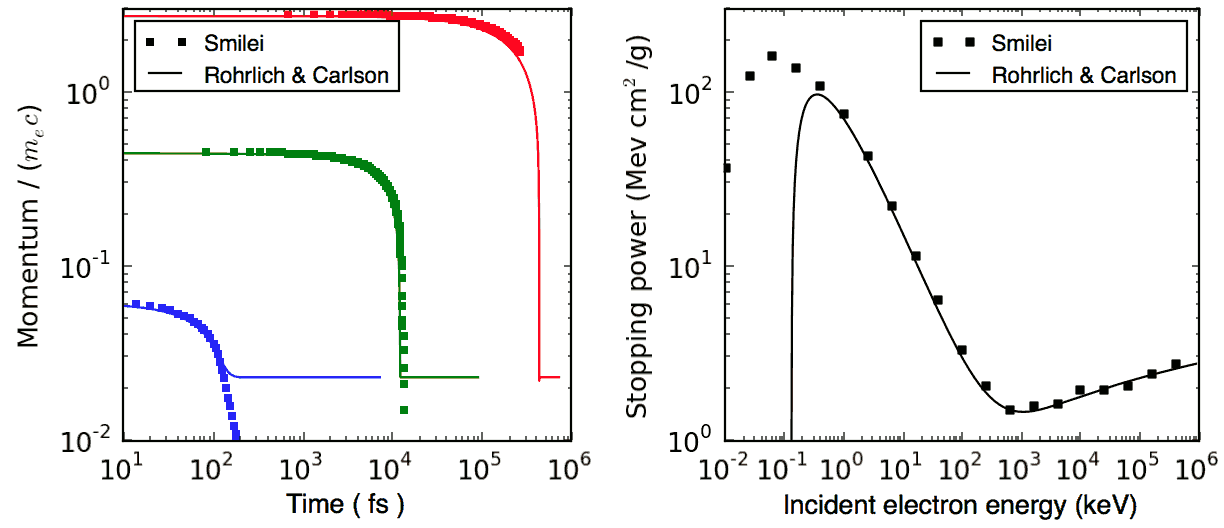
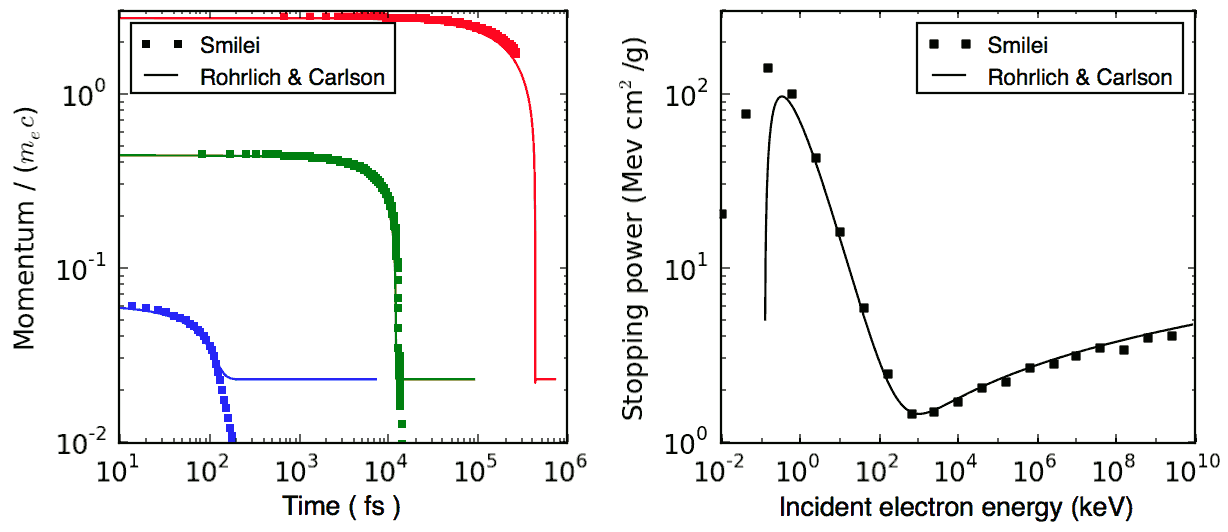
Better ionization formula for high energies

diff --git a/src/Collisions/CollisionalIonization.cpp b/src/Collisions/CollisionalIonization.cpp
@@ -130,21 +130,30 @@ void CollisionalIonization::prepare3(double timestep, int n_cell_per_cluster,
     }
 }
 
-// Method to find out whether a 
-
 // Method to apply the ionization
-void CollisionalIonization::apply(double vrel, double gamma1_COM, double gamma2_COM,
+void CollisionalIonization::apply(double gamma1, double gamma2,
     Particles *p1, int i1, Particles *p2, int i2)
 {
+    static double gamma, Kve;
+    gamma1 = p1->lor_fac(i1);
+    gamma2 = p2->lor_fac(i2);
+    // Calculate lorentz factor in the frame of ion
+    gamma = gamma1*gamma2 
+        - p1->momentum(0,i1)*p2->momentum(0,i2)
+        - p1->momentum(1,i1)*p2->momentum(1,i2)
+        - p1->momentum(2,i1)*p2->momentum(2,i2);
+    // Calculate coefficient (1-ve.vi)*ve' where ve' is in ion frame
+    Kve = sqrt(gamma*gamma-1.)/gamma1/gamma2;
+    // Calculate the rest of the stuff
     if( electronFirst ) {
-        calculate(vrel, gamma1_COM, p1, i1, p2, i2);
+        calculate(gamma, Kve, p1, i1, p2, i2);
     } else {
-        calculate(vrel, gamma2_COM, p2, i2, p1, i1);
+        calculate(gamma, Kve, p2, i2, p1, i1);
     }
 }
 
 // Method used by ::apply so that we are sure that electrons are the first species
-void CollisionalIonization::calculate(double vrel, double gammae,
+void CollisionalIonization::calculate(double gamma, double Kve, 
     Particles *pe, int ie, Particles *pi, int ii)
 {
     static double We, Wi; // weights
@@ -157,7 +166,7 @@ void CollisionalIonization::calculate(double vrel, double gammae,
     if( Zstar>=atomic_number ) return; // if already fully ionized, do nothing
     
     // Calculate the location x in the databases
-    x = a2*log(a1*(gammae-1.));
+    x = a2*log(a1*(gamma-1.));
     
     // Interpolate the databases at location x
     if( x<0. ) return; // if energy below Emin, do nothing
@@ -176,30 +185,41 @@ void CollisionalIonization::calculate(double vrel, double gammae,
     
     // Make a random number to choose if ionization or not
     U = ((double)rand() / RAND_MAX);
-    if( U < exp(-vrel*coeff*cs) ) return;
+    if( U < exp(-coeff*Kve*cs) ) return;
     
     // Now we really do the ionization
     U = ((double)rand() / RAND_MAX);
     We = pe->weight(ie); Wi = pi->weight(ii);
-    p2 = gammae*gammae - 1.;
+    p2 = gamma*gamma - 1.;
     // Ionize the atom and create electron
     if( U<We/Wi ) {
-        pi->charge(ii)++;
-        pe->cp_particle(ie, new_electrons); // copy electron
-        pr = sqrt(w*(w+2.)/p2); // momentum ratio
+        pi->charge(ii)++; // increase ion charge
+        pe->cp_particle(ie, new_electrons); // duplicate electron
+        new_electrons.Weight.back() = Wi; // new electron has ion weight
+        // Calculate the new electron momentum
+        pr = sqrt(w*(w+2.)/p2);
         new_electrons.Momentum[0].back() *= pr;
         new_electrons.Momentum[1].back() *= pr;
         new_electrons.Momentum[2].back() *= pr;
-        new_electrons.Weight.back() = Wi;
+        // Correction for moving back to the frame of the ion
+        pr = w+1. - pr*gamma;
+        new_electrons.Momentum[0].back() += pr * pi->momentum(0,ii);
+        new_electrons.Momentum[1].back() += pr * pi->momentum(1,ii);
+        new_electrons.Momentum[2].back() += pr * pi->momentum(2,ii);
     }
     // Lose incident electron energy
     if( U<Wi/We ) {
-        pr = sqrt((pow(gammae-e,2)-1.)/p2); // momentum ratio
+        // Calculate the new electron momentum
+        pr = sqrt((pow(gamma-e,2)-1.)/p2);
         pe->momentum(0,ie) *= pr;
         pe->momentum(1,ie) *= pr;
         pe->momentum(2,ie) *= pr;
+        // Correction for moving back to the frame of the ion
+        pr = (1.-pr)*gamma - e;
+        pe->momentum(0,ie) += pr * pi->momentum(0,ii);
+        pe->momentum(1,ie) += pr * pi->momentum(1,ii);
+        pe->momentum(2,ie) += pr * pi->momentum(2,ii);
     }
-    
 }
 
 

diff --git a/src/Collisions/CollisionalIonization.h b/src/Collisions/CollisionalIonization.h
@@ -30,8 +30,7 @@ public:
     virtual void prepare2(Particles *p1, int i1, Particles *p2, int i2);
     virtual void prepare3(double, int, unsigned int, unsigned int);
     //! Method to apply the ionization
-    virtual void apply(double vrel, double gamma1_COM, double gamma2_COM,
-        Particles *p1, int i1, Particles *p2, int i2);
+    virtual void apply(double, double, Particles *p1, int i1, Particles *p2, int i2);
     
     //! Table of integrated cross-section
     std::vector<std::vector<double> > crossSection;
@@ -67,7 +66,7 @@ private:
     double coeff;
     
     //! Method called by ::apply to calculate the ionization, being sure that electrons are the first species
-    void calculate(double vrel, double gammae, Particles *pe, int ie, Particles *pi, int ii);
+    void calculate(double, double, Particles *pe, int ie, Particles *pi, int ii);
     
     //! Quantities used during computation
     int Zstar; // ion charge
@@ -81,13 +80,12 @@ public:
     CollisionalNoIonization() : CollisionalIonization(0,1.,NULL) {};
     ~CollisionalNoIonization(){};
     
-    void prepare2(Particles *p1, int i1, Particles *p2, int i2){};
+    void prepare2(Particles*, int, Particles*, int){};
     void prepare3(double, int, unsigned int, unsigned int){};
-    void apply(double vrel, double gamma1_COM, double gamma2_COM,
-        Particles *p1, int i1, Particles *p2, int i2){};
+    void apply(double, double, Particles*, int, Particles*, int){};
     
     //! Temporary stuff before patches arrive
-    void finish(Species *s1, Species *s2, Params&) {};
+    void finish(Species*, Species*, Params&) {};
 };
 
 #endif

diff --git a/tests/collisions/ionization_stopping_power1.py b/tests/collisions/ionization_stopping_power1.py
@@ -24,7 +24,7 @@ interpolation_order = 2
 # timestep = float, time steps
 # sim_time = float, duration of the simulation
 timestep = 0.01 * L0
-sim_time  = 1 * L0
+sim_time  = 10 * L0
 
 
 #  optional parameter time_fields_frozen, during which fields are not updated
@@ -65,7 +65,7 @@ random_seed = 0
 electrons = []
 energy = []
 emin = 1e-2 #keV
-emax = 1e6
+emax = 1e10
 npoints = 20
 for i in range(npoints):
 	el = "electron"+str(i)
@@ -78,7 +78,7 @@ for i in range(npoints):
 		species_type = el,
 		initPosition_type = "regular",
 		initMomentum_type = "maxwell-juettner",
-		n_part_per_cell= 100,
+		n_part_per_cell= 10,
 		mass = 1.0,
 		charge = -1.0,
 		charge_density = 1e-9,
@@ -128,7 +128,7 @@ Collisions(
 # ---------------------
 
 # print_every (on screen text output) 
-print_every = 10
+print_every = 100
 
 # DIAGNOSTICS ON FIELDS
 fieldDump_every    = 1

diff --git a/tests/collisions/ionization_stopping_power.py b/tests/collisions/ionization_stopping_power.py
@@ -106,7 +106,7 @@ for i in range(npoints):
 ax = fig.add_axes([0.57, 0.19, 0.37,  0.77])
 ax.loglog(energy, Qsmilei, 'ok', label="Smilei", markersize=4)
 # Plot theory
-E = np.logspace(-1,6,1000)
+E = np.logspace(-1,10,1000)
 ax.loglog(E, RohrlichStoppingPower(Zi,E)/mass,'-k', label="Rohrlich & Carlson")
 # Make nicer plot
 ax.set_ylim(1.,3e2)
@@ -116,5 +116,5 @@ ax.xaxis.labelpad = 0
 ax.yaxis.labelpad = 0
 ax.set_xlabel("Incident electron energy (keV)")
 ax.set_ylabel("Stopping power (Mev cm$^2$/g)")
-
+ax.set_xticks([1e-2, 1e0, 1e2, 1e4, 1e6, 1e8, 1e10])
 

diff --git a/src/Collisions/Collisions.cpp b/src/Collisions/Collisions.cpp
@@ -569,7 +569,7 @@ void Collisions::collide(Params& params, vector<Species*>& vecSpecies, int itime
             }
             
             // Handle ionization
-            Ionization->apply(vrel, gamma1_COM, gamma2_COM, p1, i1, p2, i2);
+            Ionization->apply(gamma1, gamma2, p1, i1, p2, i2);
             
             if( debug ) {
                 smean      ->data_2D[ibin][0] += s;

diff --git a/doc/Sphinx/collisions.rst b/doc/Sphinx/collisions.rst
@@ -19,38 +19,35 @@ Please refer to :ref:`that doc <Collisions>` for an explanation of how to add co
 The binary collision scheme
 ^^^^^^^^^^^^^^^^^^^^^^^^^^^
 
-Collisions are calculated at each timestep.
+Collisions are calculated at each timestep and for each collision block
+given in the input file.
 
-For each collision block (given in the input file):
+If *intra-collisions*:
   
-  For each particle cluster:
-    
-    If *intra-collisions*:
-      
-      | Create one array of indices pointing to all particles of the species group.
-      | Shuffle the array.
-      | Split the array in two halves.
-    
-    If *inter-collisions*:
-      
-      | Create two arrays of indices pointing to all particles of each species group.
-      | Shuffle the largest array. The other array is not shuffled.
-      | => The two resulting arrays represent pairs of particles (see algorithm in [Nanbu1998]_).
-    
-    Calculate a few intermediate quantities:
-      
-      | Particle density :math:`n_1` of group 1.
-      | Particle density :math:`n_2`  of group 2.
-      | *Crossed* particle density :math:`n_{12}` (see [Perez2012]_).
-      | Other constants.
-    
-    For each pair of particles:
-    
-      | Calculate the momenta in the center-of-mass (COM) frame.
-      | Calculate the coulomb log if requested (see [Perez2012]_).
-      | Calculate the parameter :math:`s` and its correction at low temperature (see [Perez2012]_).
-      | Pick the deflection angle (see [Nanbu1997]_).
-      | Deflect particles in the COM frame and go back to the laboratory frame.
+  | Create one array of indices pointing to all particles of the species group.
+  | Shuffle the array.
+  | Split the array in two halves.
+
+If *inter-collisions*:
+  
+  | Create two arrays of indices pointing to all particles of each species group.
+  | Shuffle the largest array. The other array is not shuffled.
+  | => The two resulting arrays represent pairs of particles (see algorithm in [Nanbu1998]_).
+
+Calculate a few intermediate quantities:
+  
+  | Particle density :math:`n_1` of group 1.
+  | Particle density :math:`n_2`  of group 2.
+  | *Crossed* particle density :math:`n_{12}` (see [Perez2012]_).
+  | Other constants.
+
+For each pair of particles:
+
+  | Calculate the momenta in the center-of-mass (COM) frame.
+  | Calculate the coulomb log if requested (see [Perez2012]_).
+  | Calculate the parameter :math:`s` and its correction at low temperature (see [Perez2012]_).
+  | Pick the deflection angle (see [Nanbu1997]_).
+  | Deflect particles in the COM frame and go back to the laboratory frame.
 
 
 ----
@@ -218,7 +215,7 @@ Collisional ionization
 ^^^^^^^^^^^^^^^^^^^^^^
 
 The binary collisions can also be ionizing if they are **electron-ion** collisions.
-The approach is the same as that provided in [Perez2012]_.
+The approach is almost the same as that provided in [Perez2012]_.
 
 When ionization is requested by setting ``ionizing=True``, a few additional operations
 are executed:
@@ -226,14 +223,45 @@ are executed:
 * At the beginning of the run, cross-sections are calculated from tabulated binding
   energies (available for ions up to atomic number 100). These cross-sections are then
   tabulated for each requested ion species.
-* Each timestep, the particle densities :math:`n_e`, :math:`n_i` and :math:`n_{ei}`
-  (similar to the densities above for collisions) are calculated.
+* Each timestep, the particle density :math:`n = n_e n_i/n_{ei}`
+  (similar to the densities above for collisions) is calculated.
 * During each collision, a probability for ionization is computed. If successful, 
   the ion charge is increased, the incident electron is slowed down, and a new electron
   is created.
 
-Note that this scheme does not account for recombination, which would balance ionization
+This scheme does not account for recombination, which would balance ionization
 over long time scales.
+
+.. rubric:: Modifications
+
+A modification has been added to the theory of [Perez2012]_ in order to account for the
+laboratory frame being different from the ion frame. Considering :math:`\overrightarrow{p_e}`
+and :math:`\overrightarrow{p_i}` the electron and ion momenta in the laboratory frame, 
+and their associated Lorentz factors :math:`\gamma_1` and :math:`\gamma_2`, we can derive
+the Lorentz factor of the electron in the ion frame with
+:math:`\gamma_e^\star=\gamma_e\gamma_i-\overrightarrow{p_e}\cdot\overrightarrow{p_i}`.
+The probability for ionization reads:
+
+.. math::
+  
+  P = 1-\exp\left( - v_e \sigma n \Delta t \right) = 1-\exp\left( -V^\star \sigma^\star n \Delta t \right)
+
+where :math:`\sigma` is the cross-section in the laboratory frame, :math:`\sigma^\star`
+is the cross-section in the ion frame, and 
+:math:`V^\star=\sqrt{\gamma_e^{\star\,2}-1}/(\gamma_e\gamma_i)`.
+
+The loss of energy :math:`E_e` of the incident electron translates into a change in momentum
+:math:`{p_e^\star}' = \alpha_e p_e^\star` in the ion frame, with
+:math:`\alpha_e=\sqrt{(\gamma_e^\star-E_e)^2-1}/\sqrt{\gamma_e^{\star2}-1}`.
+In the laboratory frame, it becomes
+:math:`\overrightarrow{p_e'}=\alpha_e\overrightarrow{p_e}+((1-\alpha_e)\gamma_e^\star-E_e)\overrightarrow{p_i}`.
+
+A similar operation is done for defining the momentum of the new electron in the lab frame.
+It is created with energy :math:`E_w` and its momentum is
+:math:`p_w^\star = \alpha_w p_e^\star` in the ion frame, with
+:math:`\alpha_w=\sqrt{E_w(E_w+2)}/\sqrt{\gamma_e^{\star2}-1}`.
+In the laboratory frame, it becomes
+:math:`\overrightarrow{p_w}=\alpha_w\overrightarrow{p_e}+(E_w+1-\alpha_w\gamma_e^\star)\overrightarrow{p_i}`.
 
 
 ----
